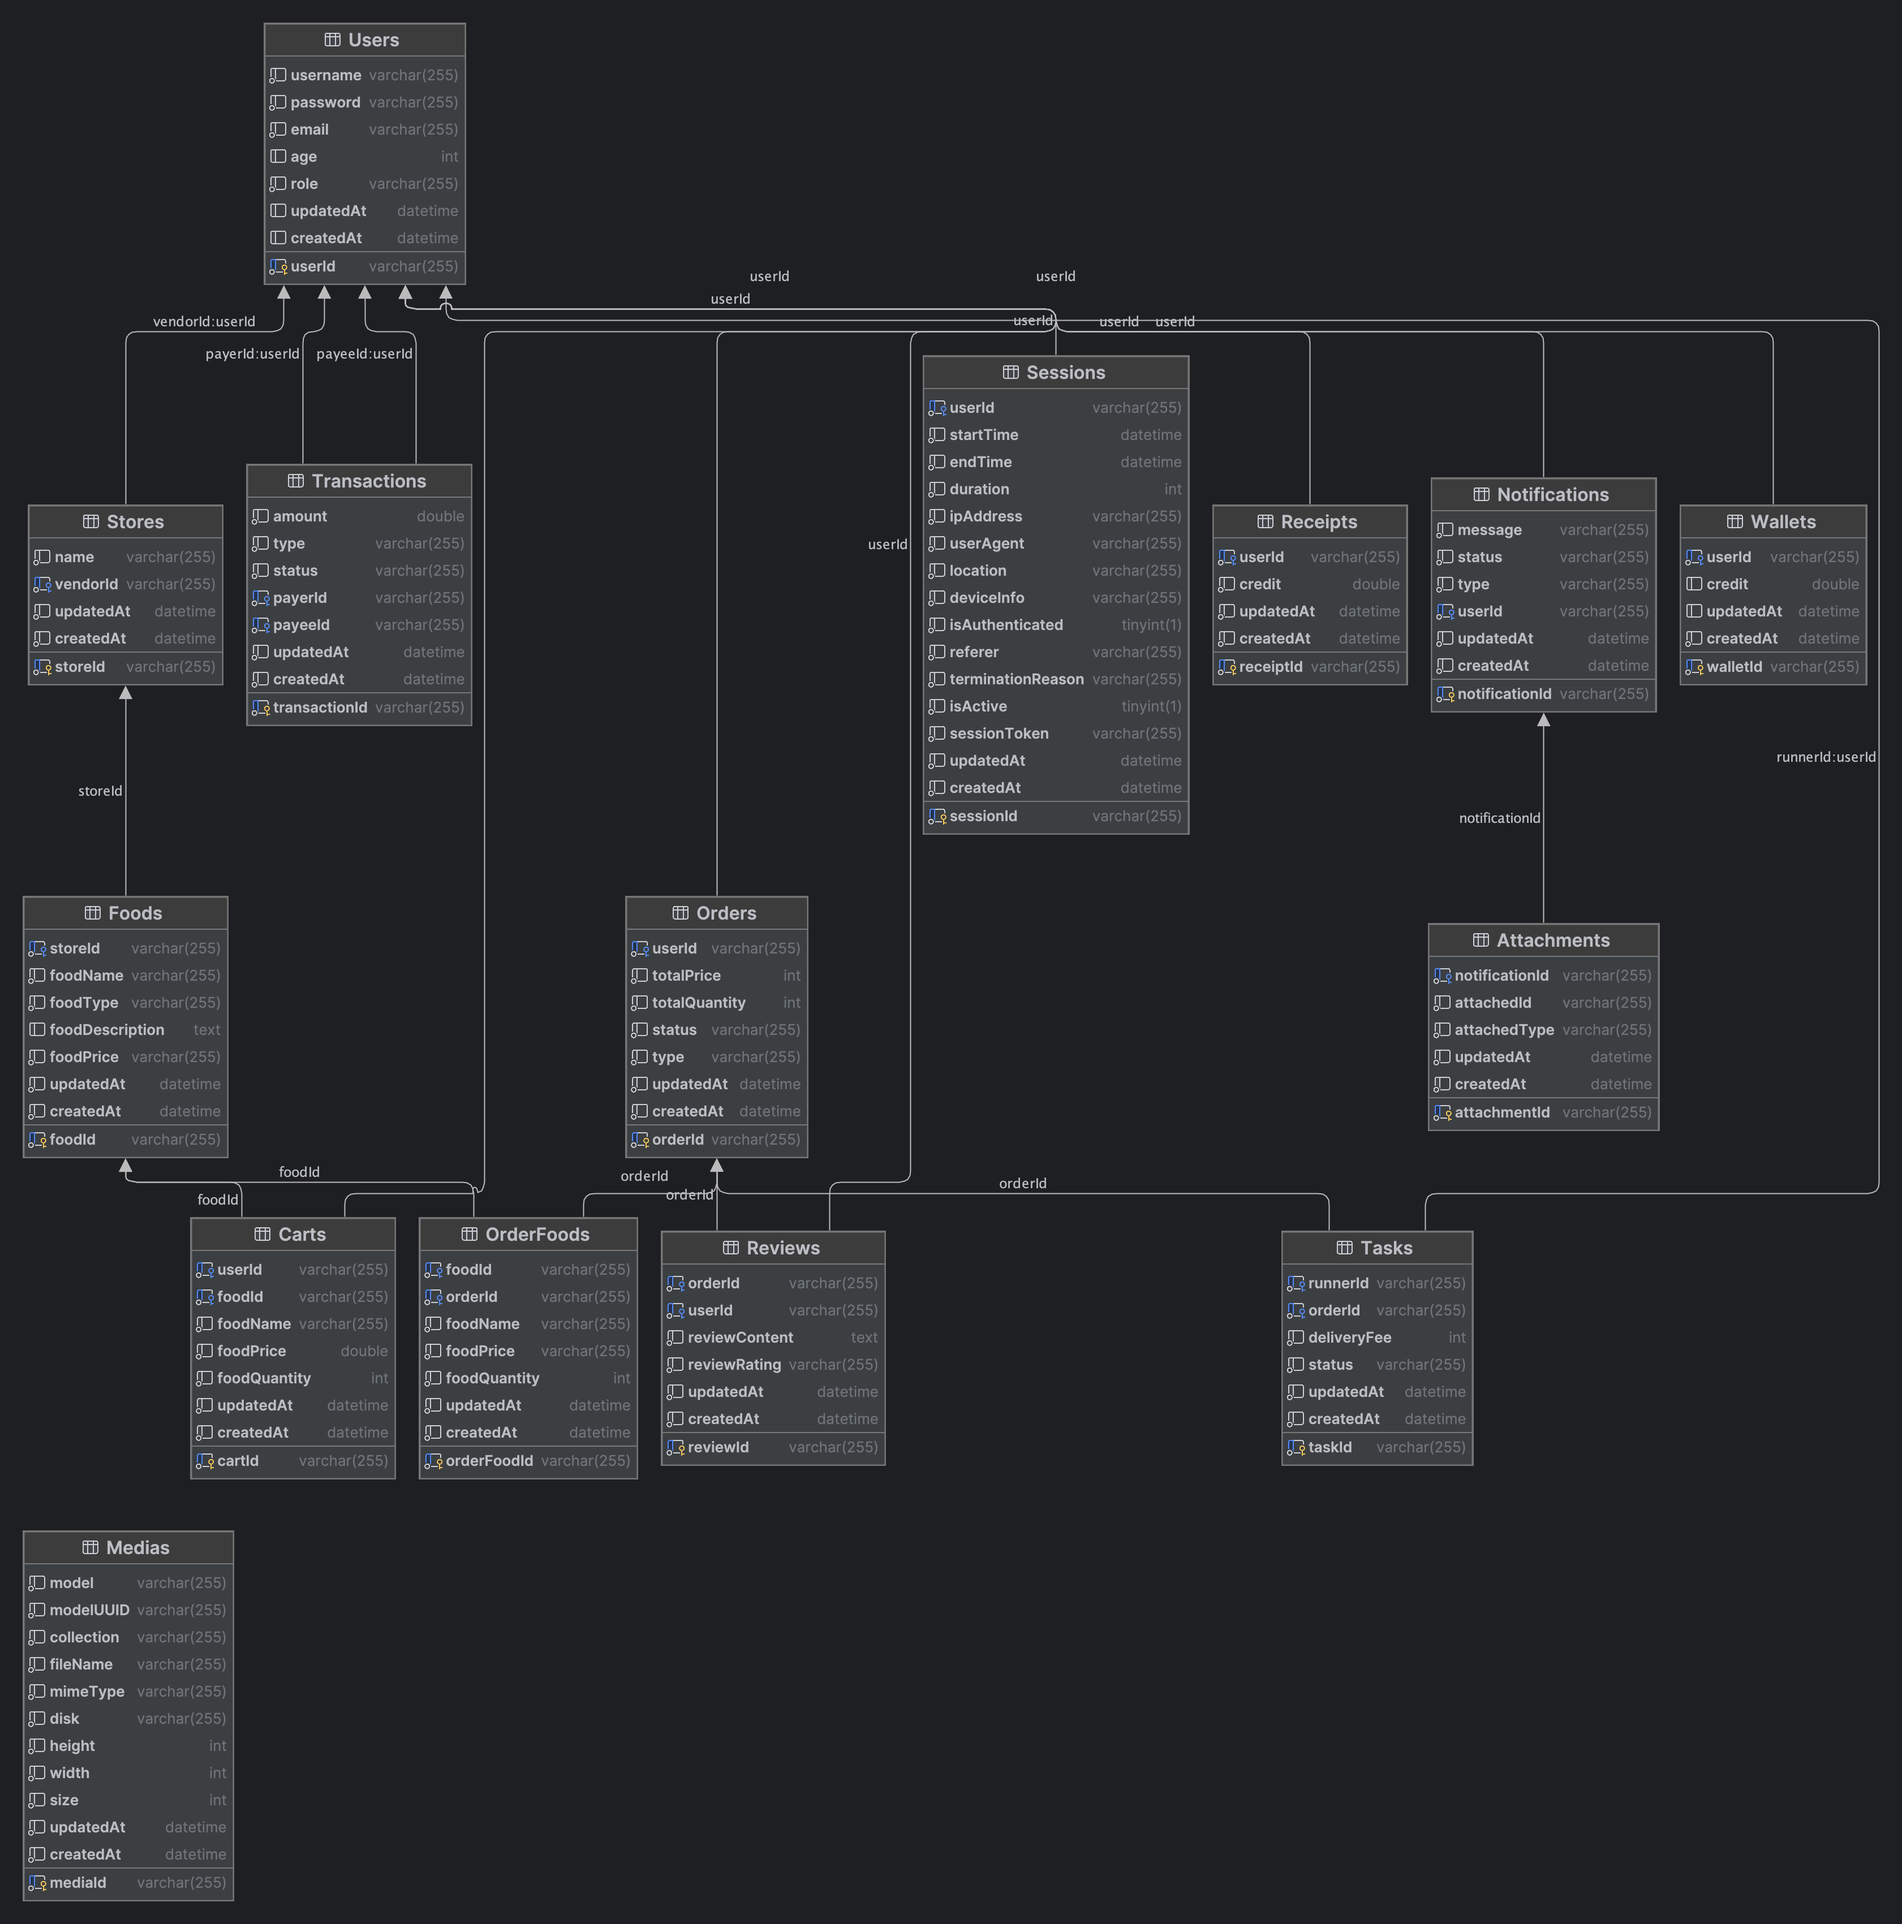
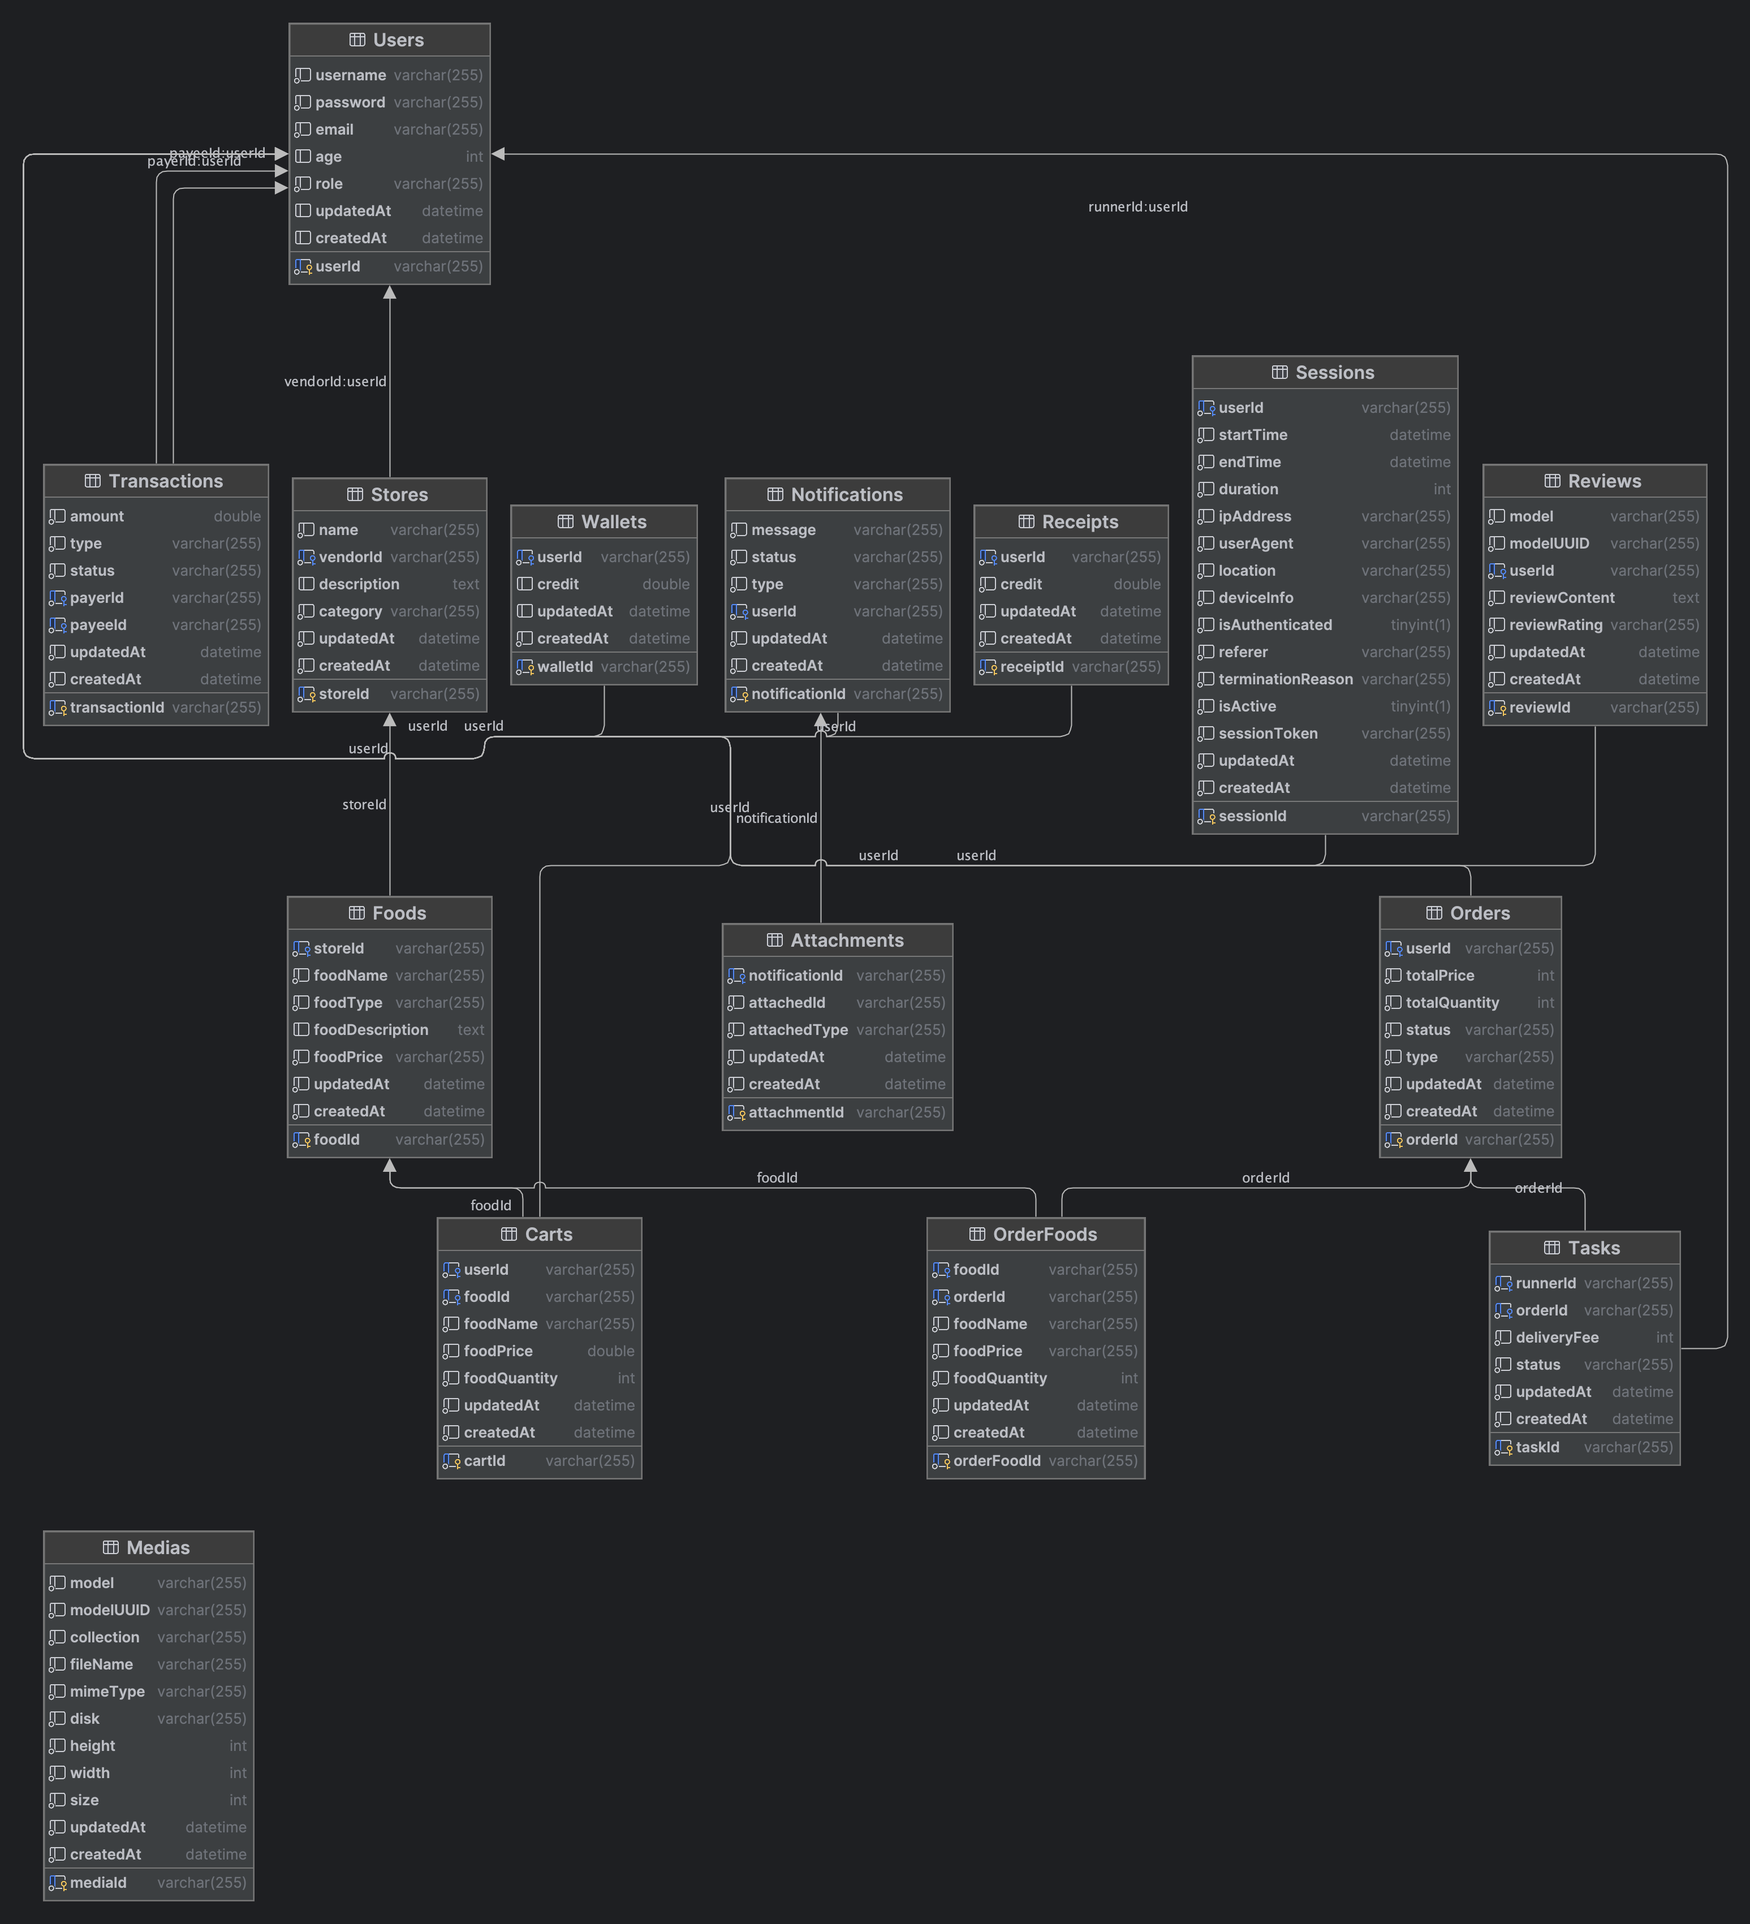
Modified attributes in stores, reviews model 1. Added Customer, Vendor, Runner profile to user

diff --git a/src/main/java/com/oodwj_assignment/models/Reviews.java b/src/main/java/com/oodwj_assignment/models/Reviews.java
@@ -4,21 +4,27 @@ import java.time.LocalDateTime;
 import java.util.UUID;
 
 public class Reviews extends Model {
-    private UUID orderId;
+    private String model;
+    private UUID modelUUID;
     private UUID userId;
     private String reviewContent;
     private reviewRating reviewRating;
 
-    public Reviews(UUID reviewId, UUID orderId, UUID userId, String reviewContent, reviewRating reviewRating, LocalDateTime updatedAt, LocalDateTime createdAt) {
+    public Reviews(UUID reviewId, String model,UUID modelUUID, UUID userId, String reviewContent, reviewRating reviewRating, LocalDateTime updatedAt, LocalDateTime createdAt) {
         super(reviewId, updatedAt, createdAt);
-        this.orderId = orderId;
+        this.model = model;
+        this.modelUUID = modelUUID;
         this.userId = userId;
         this.reviewContent = reviewContent;
         this.reviewRating = reviewRating;
     }
 
-    public UUID getOrderId() {
-        return orderId;
+    public String getModel() {
+        return model;
+    }
+
+    public UUID getModelUUID() {
+        return modelUUID;
     }
 
     public UUID getUserId() {
@@ -33,8 +39,12 @@ public class Reviews extends Model {
         return reviewRating;
     }
 
-    public void setOrderId(UUID orderId) {
-        this.orderId = orderId;
+    public void setModel(String model) {
+        this.model = model;
+    }
+
+    public void setModelUUID(UUID modelUUID) {
+        this.modelUUID = modelUUID;
     }
 
     public void setUserId(UUID userId) {
@@ -59,6 +69,6 @@ public class Reviews extends Model {
 
     @Override
     public String toString() {
-        return getId() + ";" + getOrderId() + ";" + getUserId() + ";" + getReviewContent() + ";" + getReviewRating() + ";" + getUpdatedAt() + ";" + getCreatedAt();
+        return getId() + ";" + getModel() + ";" + getModelUUID() + ";" + getUserId() + ";" + getReviewContent() + ";" + getReviewRating() + ";" + getUpdatedAt() + ";" + getCreatedAt();
     }
 }

diff --git a/src/main/java/com/oodwj_assignment/models/Stores.java b/src/main/java/com/oodwj_assignment/models/Stores.java
@@ -6,11 +6,15 @@ import java.util.UUID;
 public class Stores extends Model {
     private String name;
     private UUID vendorId;
+    private String description;
+    private storeCategory category;
 
-    public Stores(UUID storeId, String name, UUID vendorId, LocalDateTime updatedAt, LocalDateTime createdAt) {
+    public Stores(UUID storeId, String name, UUID vendorId,String description,storeCategory category, LocalDateTime updatedAt, LocalDateTime createdAt) {
         super(storeId, updatedAt, createdAt);
         this.name = name;
         this.vendorId = vendorId;
+        this.description = description;
+        this.category = category;
     }
 
     public String getName() {
@@ -21,12 +25,34 @@ public class Stores extends Model {
         return vendorId;
     }
 
+    public String getDescription() {
+        return description;
+    }
+
+    public storeCategory getCategory() {
+        return category;
+    }
+
     public void setName(String name) {
         this.name = name;
     }
 
     public void setVendorId(UUID vendorId) {
         this.vendorId = vendorId;
+    }
+
+    public void setDescription(String description) {
+        this.description = description;
+    }
+
+    public void setCategory(storeCategory category) {
+        this.category = category;
+    }
+
+    public enum storeCategory {
+        Western,
+        Chinese,
+        Asian
     }
 
     @Override

diff --git a/src/main/java/com/oodwj_assignment/dao/ReviewDaoImpl.java b/src/main/java/com/oodwj_assignment/dao/ReviewDaoImpl.java
@@ -18,14 +18,15 @@ public class ReviewDaoImpl extends AbstractDao<Reviews> implements ReviewDao {
     public Reviews parse(String[] parts) {
         try {
             UUID reviewId = UUID.fromString(parts[0]);
-            UUID foodId = UUID.fromString(parts[1]);
-            UUID userId = UUID.fromString(parts[2]);
+            String model = parts[1];
+            UUID modelUUID = UUID.fromString(parts[2]);
+            UUID userId = UUID.fromString(parts[3]);
             String reviewContent = parts[4];
             Reviews.reviewRating reviewRating = Reviews.reviewRating.valueOf(parts[5]);
             LocalDateTime updatedAt = LocalDateTime.parse(parts[6]);
             LocalDateTime createdAt = LocalDateTime.parse(parts[7]);
 
-            return new Reviews(reviewId, foodId, userId, reviewContent, reviewRating, updatedAt, createdAt);
+            return new Reviews(reviewId, model, modelUUID, userId, reviewContent, reviewRating, updatedAt, createdAt);
         } catch (Exception e) {
             return null;
         }

diff --git a/src/main/java/com/oodwj_assignment/dao/StoreDaoImpl.java b/src/main/java/com/oodwj_assignment/dao/StoreDaoImpl.java
@@ -19,10 +19,12 @@ public class StoreDaoImpl extends AbstractDao<Stores> implements StoreDao {
             UUID storeId = UUID.fromString(parts[0]);
             String name = parts[1];
             UUID vendorId = UUID.fromString(parts[2]);
-            LocalDateTime updatedAt = LocalDateTime.parse(parts[3]);
-            LocalDateTime createdAt = LocalDateTime.parse(parts[4]);
+            String description = parts[3];
+            Stores.storeCategory category = Stores.storeCategory.valueOf(parts[4]);
+            LocalDateTime updatedAt = LocalDateTime.parse(parts[5]);
+            LocalDateTime createdAt = LocalDateTime.parse(parts[6]);
 
-            return new Stores(storeId, name, vendorId, updatedAt, createdAt);
+            return new Stores(storeId, name, vendorId, description, category, updatedAt, createdAt);
         } catch (Exception e) {
             return null;
         }

diff --git a/src/main/java/com/oodwj_assignment/models/CustomerProfile.java b/src/main/java/com/oodwj_assignment/models/CustomerProfile.java
@@ -1,0 +1,34 @@
+package com.oodwj_assignment.models;
+
+import java.util.UUID;
+
+public class CustomerProfile {
+    private UUID profileId;
+    private UUID userId;
+
+    public CustomerProfile(UUID profileId, UUID userId) {
+        this.profileId = profileId;
+        this.userId = userId;
+    }
+
+    public UUID getProfileId() {
+        return profileId;
+    }
+
+    public UUID getUserId() {
+        return userId;
+    }
+
+    public void setProfileId(UUID profileId) {
+        this.profileId = profileId;
+    }
+
+    public void setUserId(UUID userId) {
+        this.userId = userId;
+    }
+
+    @Override
+    public String toString() {
+        return getProfileId() + ";" + getUserId();
+    }
+}

diff --git a/src/main/java/com/oodwj_assignment/models/RunnerProfile.java b/src/main/java/com/oodwj_assignment/models/RunnerProfile.java
@@ -1,0 +1,34 @@
+package com.oodwj_assignment.models;
+
+import java.util.UUID;
+
+public class RunnerProfile {
+    private UUID profileId;
+    private UUID userId;
+
+    public RunnerProfile(UUID profileId, UUID userId) {
+        this.profileId = profileId;
+        this.userId = userId;
+    }
+
+    public UUID getProfileId() {
+        return profileId;
+    }
+
+    public UUID getUserId() {
+        return userId;
+    }
+
+    public void setProfileId(UUID profileId) {
+        this.profileId = profileId;
+    }
+
+    public void setUserId(UUID userId) {
+        this.userId = userId;
+    }
+
+    @Override
+    public String toString() {
+        return getProfileId() + ";" + getUserId();
+    }
+}

diff --git a/src/main/java/com/oodwj_assignment/models/VendorProfile.java b/src/main/java/com/oodwj_assignment/models/VendorProfile.java
@@ -1,0 +1,34 @@
+package com.oodwj_assignment.models;
+
+import java.util.UUID;
+
+public class VendorProfile {
+    private UUID profileId;
+    private UUID userId;
+
+    public VendorProfile(UUID profileId, UUID userId) {
+        this.profileId = profileId;
+        this.userId = userId;
+    }
+
+    public UUID getProfileId() {
+        return profileId;
+    }
+
+    public UUID getUserId() {
+        return userId;
+    }
+
+    public void setProfileId(UUID profileId) {
+        this.profileId = profileId;
+    }
+
+    public void setUserId(UUID userId) {
+        this.userId = userId;
+    }
+
+    @Override
+    public String toString() {
+        return getProfileId() + ";" + getUserId();
+    }
+}

diff --git a/src/main/java/com/oodwj_assignment/models/OrderFoods.java b/src/main/java/com/oodwj_assignment/models/OrderFoods.java
@@ -8,6 +8,7 @@ public class OrderFoods extends Model {
     private UUID orderId;
     private String foodName;
     private Double foodPrice;
+    private Double amount;
     private Integer foodQuantity;
 
     public OrderFoods(UUID oderFoodId, UUID foodId, UUID orderId, String foodName, Double foodPrice, Integer foodQuantity, LocalDateTime updatedAt, LocalDateTime createdAt) {
